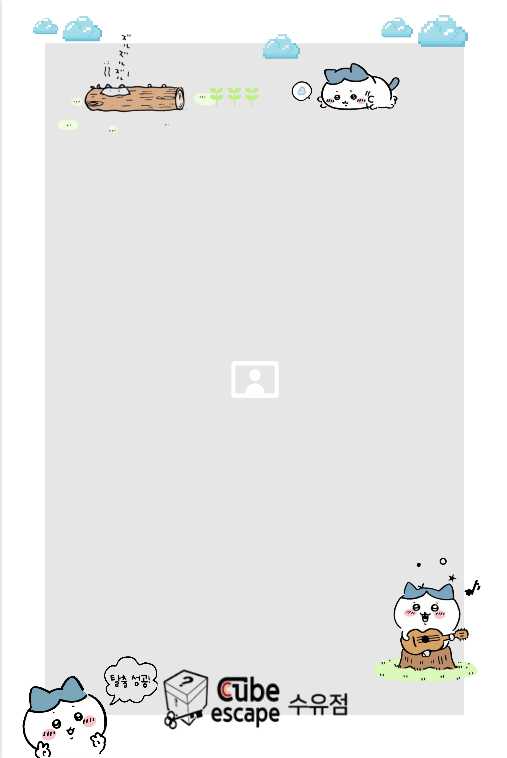
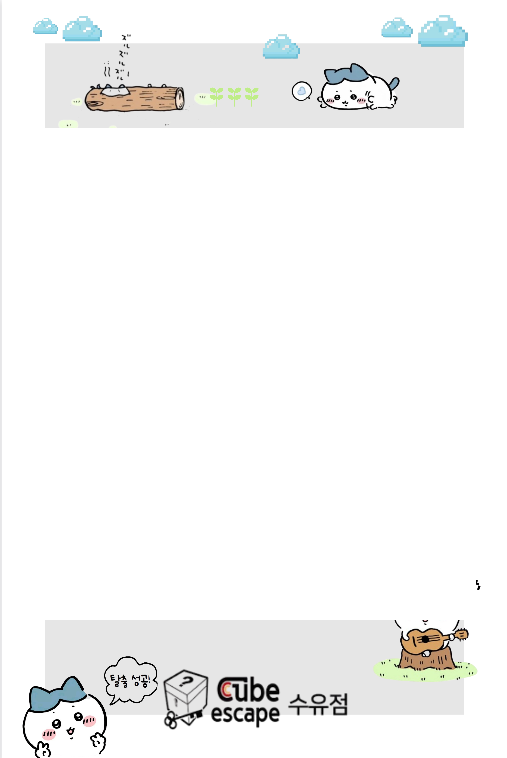
fix: 프레임 중앙만 투명 처리하여 사진+캐릭터 모두 표시
프레임 사진 영역만 투명하게 만들고,
사진 먼저 그린 후 프레임을 위에 오버레이

diff --git a/index.html b/index.html
@@ -635,17 +635,12 @@ function renderCanvas() {
       sx = 0;
       sy = Math.round((imgH - sh) / 2);
     }
-    // 1) Draw frame first (background + characters)
+    // 1) Photo in the center area
+    ctx.drawImage(originalImage, sx, sy, sw, sh, px, py, pw, ph);
+    // 2) Frame overlay on top (center is transparent, edges have characters)
     if (overlayImg.complete) {
       ctx.drawImage(overlayImg, 0, 0, cw, ch);
     }
-    // 2) Draw photo BEHIND frame characters using destination-over
-    ctx.globalCompositeOperation = 'destination-over';
-    ctx.drawImage(originalImage, sx, sy, sw, sh, px, py, pw, ph);
-    // 3) Fill remaining area white (behind everything)
-    ctx.fillStyle = '#ffffff';
-    ctx.fillRect(0, 0, cw, ch);
-    ctx.globalCompositeOperation = 'source-over';
     // Date stamp
     if (frame.showDate) {
       const now = new Date();
